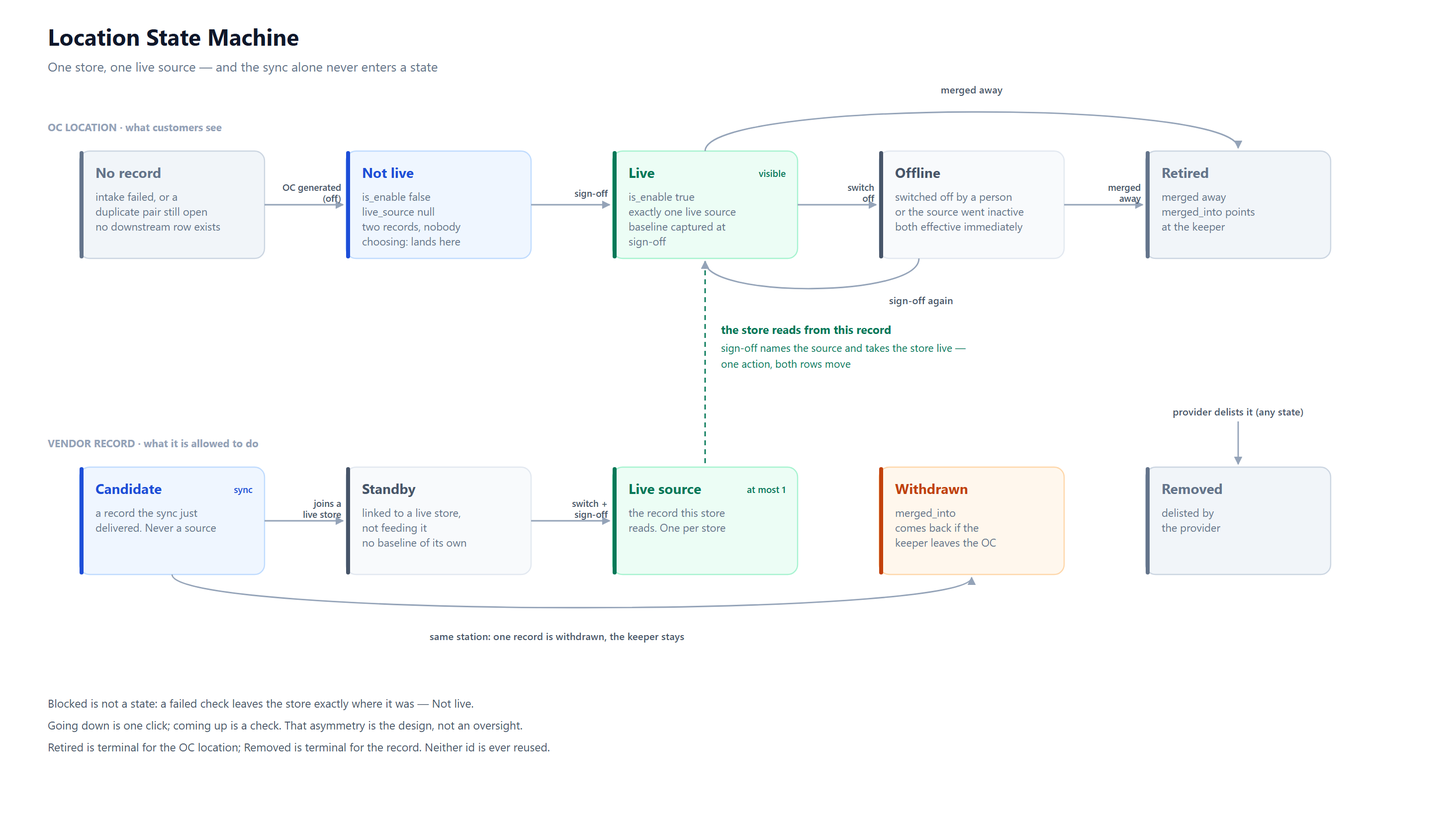
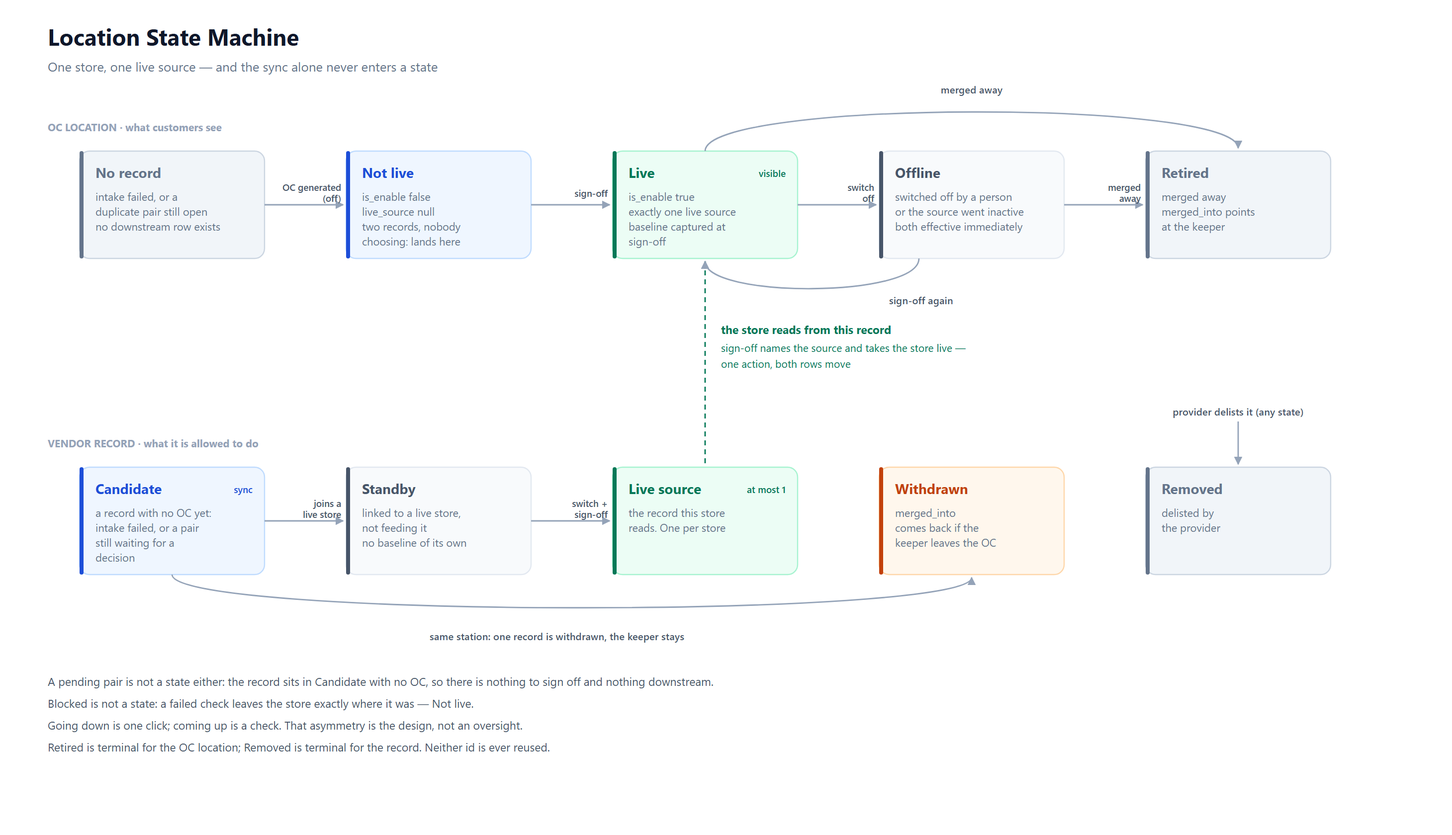
state machine: a pending pair waits in Candidate with no OC

diff --git a/diagrams/flow13-location-state.html b/diagrams/flow13-location-state.html
@@ -1,1 +1,1 @@
-<!DOCTYPE html><html><head><meta charset="utf-8"><title>Location State Machine</title><style>html,body{margin:0;padding:0;background:#fff}svg{display:block}</style></head><body><svg xmlns="http://www.w3.org/2000/svg" width="1420" height="780" viewBox="0 0 1420 780"><defs><marker id="ah" viewBox="0 0 10 10" refX="9" refY="5" markerWidth="6" markerHeight="6" orient="auto-start-reverse"><path d="M0 0 L10 5 L0 10 z" fill="#94A3B8"/></marker></defs><rect width="100%" height="100%" fill="#FFFFFF"/><text x="48" y="46" font-size="23" fill="#0F172A" font-weight="700" text-anchor="start" font-family='-apple-system,"Segoe UI",system-ui,sans-serif'>Location State Machine</text><text x="48" y="72" font-size="13" fill="#64748B" font-weight="400" text-anchor="start" font-family='-apple-system,"Segoe UI",system-ui,sans-serif'>One store, one live source — and the sync alone never enters a state</text><text x="48" y="132" font-size="10.5" fill="#94A3B8" font-weight="700" text-anchor="start" font-family='-apple-system,"Segoe UI",system-ui,sans-serif'>OC LOCATION  ·  what customers see</text><text x="48" y="450" font-size="10.5" fill="#94A3B8" font-weight="700" text-anchor="start" font-family='-apple-system,"Segoe UI",system-ui,sans-serif'>VENDOR RECORD  ·  what it is allowed to do</text><rect x="80" y="152" width="186" height="108" rx="10" fill="#F1F5F9" stroke="#CBD5E1" stroke-width="1.2"/><rect x="80" y="152" width="4" height="108" rx="2" fill="#64748B"/><text x="96" y="179" font-size="14" fill="#64748B" font-weight="650" text-anchor="start" font-family='-apple-system,"Segoe UI",system-ui,sans-serif'>No record</text><text x="96" y="202" font-size="10.9" fill="#64748B" font-weight="400" text-anchor="start" font-family='-apple-system,"Segoe UI",system-ui,sans-serif'>intake failed, or a</text><text x="96" y="217" font-size="10.9" fill="#64748B" font-weight="400" text-anchor="start" font-family='-apple-system,"Segoe UI",system-ui,sans-serif'>duplicate pair still open</text><text x="96" y="232" font-size="10.9" fill="#64748B" font-weight="400" text-anchor="start" font-family='-apple-system,"Segoe UI",system-ui,sans-serif'>no downstream row exists</text><rect x="348" y="152" width="186" height="108" rx="10" fill="#EFF6FF" stroke="#BFDBFE" stroke-width="1.2"/><rect x="348" y="152" width="4" height="108" rx="2" fill="#1D4ED8"/><text x="364" y="179" font-size="14" fill="#1D4ED8" font-weight="650" text-anchor="start" font-family='-apple-system,"Segoe UI",system-ui,sans-serif'>Not live</text><text x="364" y="202" font-size="10.9" fill="#64748B" font-weight="400" text-anchor="start" font-family='-apple-system,"Segoe UI",system-ui,sans-serif'>is_enable false</text><text x="364" y="217" font-size="10.9" fill="#64748B" font-weight="400" text-anchor="start" font-family='-apple-system,"Segoe UI",system-ui,sans-serif'>live_source null</text><text x="364" y="232" font-size="10.9" fill="#64748B" font-weight="400" text-anchor="start" font-family='-apple-system,"Segoe UI",system-ui,sans-serif'>two records, nobody</text><text x="364" y="247" font-size="10.9" fill="#64748B" font-weight="400" text-anchor="start" font-family='-apple-system,"Segoe UI",system-ui,sans-serif'>choosing: lands here</text><rect x="616" y="152" width="186" height="108" rx="10" fill="#ECFDF5" stroke="#A7F3D0" stroke-width="1.2"/><rect x="616" y="152" width="4" height="108" rx="2" fill="#047857"/><text x="632" y="179" font-size="14" fill="#047857" font-weight="650" text-anchor="start" font-family='-apple-system,"Segoe UI",system-ui,sans-serif'>Live</text><text x="790" y="178" font-size="9.5" fill="#047857" font-weight="600" text-anchor="end" font-family='-apple-system,"Segoe UI",system-ui,sans-serif'>visible</text><text x="632" y="202" font-size="10.9" fill="#64748B" font-weight="400" text-anchor="start" font-family='-apple-system,"Segoe UI",system-ui,sans-serif'>is_enable true</text><text x="632" y="217" font-size="10.9" fill="#64748B" font-weight="400" text-anchor="start" font-family='-apple-system,"Segoe UI",system-ui,sans-serif'>exactly one live source</text><text x="632" y="232" font-size="10.9" fill="#64748B" font-weight="400" text-anchor="start" font-family='-apple-system,"Segoe UI",system-ui,sans-serif'>baseline captured at</text><text x="632" y="247" font-size="10.9" fill="#64748B" font-weight="400" text-anchor="start" font-family='-apple-system,"Segoe UI",system-ui,sans-serif'>sign-off</text><rect x="884" y="152" width="186" height="108" rx="10" fill="#F8FAFC" stroke="#E2E8F0" stroke-width="1.2"/><rect x="884" y="152" width="4" height="108" rx="2" fill="#475569"/><text x="900" y="179" font-size="14" fill="#475569" font-weight="650" text-anchor="start" font-family='-apple-system,"Segoe UI",system-ui,sans-serif'>Offline</text><text x="900" y="202" font-size="10.9" fill="#64748B" font-weight="400" text-anchor="start" font-family='-apple-system,"Segoe UI",system-ui,sans-serif'>switched off by a person</text><text x="900" y="217" font-size="10.9" fill="#64748B" font-weight="400" text-anchor="start" font-family='-apple-system,"Segoe UI",system-ui,sans-serif'>or the source went inactive</text><text x="900" y="232" font-size="10.9" fill="#64748B" font-weight="400" text-anchor="start" font-family='-apple-system,"Segoe UI",system-ui,sans-serif'>both effective immediately</text><rect x="1152" y="152" width="186" height="108" rx="10" fill="#F1F5F9" stroke="#CBD5E1" stroke-width="1.2"/><rect x="1152" y="152" width="4" height="108" rx="2" fill="#64748B"/><text x="1168" y="179" font-size="14" fill="#64748B" font-weight="650" text-anchor="start" font-family='-apple-system,"Segoe UI",system-ui,sans-serif'>Retired</text><text x="1168" y="202" font-size="10.9" fill="#64748B" font-weight="400" text-anchor="start" font-family='-apple-system,"Segoe UI",system-ui,sans-serif'>merged away</text><text x="1168" y="217" font-size="10.9" fill="#64748B" font-weight="400" text-anchor="start" font-family='-apple-system,"Segoe UI",system-ui,sans-serif'>merged_into points</text><text x="1168" y="232" font-size="10.9" fill="#64748B" font-weight="400" text-anchor="start" font-family='-apple-system,"Segoe UI",system-ui,sans-serif'>at the keeper</text><path d="M266 206.0 H345" fill="none" stroke="#94A3B8" stroke-width="1.4" marker-end="url(#ah)"/><text x="343" y="192.0" font-size="9.4" fill="#475569" font-weight="600" text-anchor="end" font-family='-apple-system,"Segoe UI",system-ui,sans-serif'>OC generated</text><text x="343" y="203.0" font-size="9.4" fill="#475569" font-weight="600" text-anchor="end" font-family='-apple-system,"Segoe UI",system-ui,sans-serif'>(off)</text><path d="M534 206.0 H613" fill="none" stroke="#94A3B8" stroke-width="1.4" marker-end="url(#ah)"/><text x="611" y="198.0" font-size="9.4" fill="#475569" font-weight="600" text-anchor="end" font-family='-apple-system,"Segoe UI",system-ui,sans-serif'>sign-off</text><path d="M802 206.0 H881" fill="none" stroke="#94A3B8" stroke-width="1.4" marker-end="url(#ah)"/><text x="879" y="192.0" font-size="9.4" fill="#475569" font-weight="600" text-anchor="end" font-family='-apple-system,"Segoe UI",system-ui,sans-serif'>switch</text><text x="879" y="203.0" font-size="9.4" fill="#475569" font-weight="600" text-anchor="end" font-family='-apple-system,"Segoe UI",system-ui,sans-serif'>off</text><path d="M924 260 C924 300 709.0 300 709.0 263" fill="none" stroke="#94A3B8" stroke-width="1.4" marker-end="url(#ah)"/><text x="894" y="306" font-size="10.2" fill="#475569" font-weight="500" text-anchor="start" font-family='-apple-system,"Segoe UI",system-ui,sans-serif'>sign-off again</text><path d="M709.0 152 C709.0 100 1245.0 100 1245.0 149" fill="none" stroke="#94A3B8" stroke-width="1.4" marker-end="url(#ah)"/><text x="977.0" y="94" font-size="10.2" fill="#475569" font-weight="500" text-anchor="middle" font-family='-apple-system,"Segoe UI",system-ui,sans-serif'>merged away</text><path d="M1070 206.0 H1149" fill="none" stroke="#94A3B8" stroke-width="1.4" marker-end="url(#ah)"/><text x="1147" y="192.0" font-size="9.4" fill="#475569" font-weight="600" text-anchor="end" font-family='-apple-system,"Segoe UI",system-ui,sans-serif'>merged</text><text x="1147" y="203.0" font-size="9.4" fill="#475569" font-weight="600" text-anchor="end" font-family='-apple-system,"Segoe UI",system-ui,sans-serif'>away</text><rect x="80" y="470" width="186" height="108" rx="10" fill="#EFF6FF" stroke="#BFDBFE" stroke-width="1.2"/><rect x="80" y="470" width="4" height="108" rx="2" fill="#1D4ED8"/><text x="96" y="497" font-size="14" fill="#1D4ED8" font-weight="650" text-anchor="start" font-family='-apple-system,"Segoe UI",system-ui,sans-serif'>Candidate</text><text x="254" y="496" font-size="9.5" fill="#1D4ED8" font-weight="600" text-anchor="end" font-family='-apple-system,"Segoe UI",system-ui,sans-serif'>sync</text><text x="96" y="520" font-size="10.9" fill="#64748B" font-weight="400" text-anchor="start" font-family='-apple-system,"Segoe UI",system-ui,sans-serif'>a record the sync just</text><text x="96" y="535" font-size="10.9" fill="#64748B" font-weight="400" text-anchor="start" font-family='-apple-system,"Segoe UI",system-ui,sans-serif'>delivered. Never a source</text><rect x="348" y="470" width="186" height="108" rx="10" fill="#F8FAFC" stroke="#E2E8F0" stroke-width="1.2"/><rect x="348" y="470" width="4" height="108" rx="2" fill="#475569"/><text x="364" y="497" font-size="14" fill="#475569" font-weight="650" text-anchor="start" font-family='-apple-system,"Segoe UI",system-ui,sans-serif'>Standby</text><text x="364" y="520" font-size="10.9" fill="#64748B" font-weight="400" text-anchor="start" font-family='-apple-system,"Segoe UI",system-ui,sans-serif'>linked to a live store,</text><text x="364" y="535" font-size="10.9" fill="#64748B" font-weight="400" text-anchor="start" font-family='-apple-system,"Segoe UI",system-ui,sans-serif'>not feeding it</text><text x="364" y="550" font-size="10.9" fill="#64748B" font-weight="400" text-anchor="start" font-family='-apple-system,"Segoe UI",system-ui,sans-serif'>no baseline of its own</text><rect x="616" y="470" width="186" height="108" rx="10" fill="#ECFDF5" stroke="#A7F3D0" stroke-width="1.2"/><rect x="616" y="470" width="4" height="108" rx="2" fill="#047857"/><text x="632" y="497" font-size="14" fill="#047857" font-weight="650" text-anchor="start" font-family='-apple-system,"Segoe UI",system-ui,sans-serif'>Live source</text><text x="790" y="496" font-size="9.5" fill="#047857" font-weight="600" text-anchor="end" font-family='-apple-system,"Segoe UI",system-ui,sans-serif'>at most 1</text><text x="632" y="520" font-size="10.9" fill="#64748B" font-weight="400" text-anchor="start" font-family='-apple-system,"Segoe UI",system-ui,sans-serif'>the record this store</text><text x="632" y="535" font-size="10.9" fill="#64748B" font-weight="400" text-anchor="start" font-family='-apple-system,"Segoe UI",system-ui,sans-serif'>reads. One per store</text><rect x="884" y="470" width="186" height="108" rx="10" fill="#FFF7ED" stroke="#FED7AA" stroke-width="1.2"/><rect x="884" y="470" width="4" height="108" rx="2" fill="#C2410C"/><text x="900" y="497" font-size="14" fill="#C2410C" font-weight="650" text-anchor="start" font-family='-apple-system,"Segoe UI",system-ui,sans-serif'>Withdrawn</text><text x="900" y="520" font-size="10.9" fill="#64748B" font-weight="400" text-anchor="start" font-family='-apple-system,"Segoe UI",system-ui,sans-serif'>merged_into</text><text x="900" y="535" font-size="10.9" fill="#64748B" font-weight="400" text-anchor="start" font-family='-apple-system,"Segoe UI",system-ui,sans-serif'>comes back if the</text><text x="900" y="550" font-size="10.9" fill="#64748B" font-weight="400" text-anchor="start" font-family='-apple-system,"Segoe UI",system-ui,sans-serif'>keeper leaves the OC</text><rect x="1152" y="470" width="186" height="108" rx="10" fill="#F1F5F9" stroke="#CBD5E1" stroke-width="1.2"/><rect x="1152" y="470" width="4" height="108" rx="2" fill="#64748B"/><text x="1168" y="497" font-size="14" fill="#64748B" font-weight="650" text-anchor="start" font-family='-apple-system,"Segoe UI",system-ui,sans-serif'>Removed</text><text x="1168" y="520" font-size="10.9" fill="#64748B" font-weight="400" text-anchor="start" font-family='-apple-system,"Segoe UI",system-ui,sans-serif'>delisted by</text><text x="1168" y="535" font-size="10.9" fill="#64748B" font-weight="400" text-anchor="start" font-family='-apple-system,"Segoe UI",system-ui,sans-serif'>the provider</text><path d="M266 524.0 H345" fill="none" stroke="#94A3B8" stroke-width="1.4" marker-end="url(#ah)"/><text x="343" y="510.0" font-size="9.4" fill="#475569" font-weight="600" text-anchor="end" font-family='-apple-system,"Segoe UI",system-ui,sans-serif'>joins a</text><text x="343" y="521.0" font-size="9.4" fill="#475569" font-weight="600" text-anchor="end" font-family='-apple-system,"Segoe UI",system-ui,sans-serif'>live store</text><path d="M534 524.0 H613" fill="none" stroke="#94A3B8" stroke-width="1.4" marker-end="url(#ah)"/><text x="611" y="510.0" font-size="9.4" fill="#475569" font-weight="600" text-anchor="end" font-family='-apple-system,"Segoe UI",system-ui,sans-serif'>switch +</text><text x="611" y="521.0" font-size="9.4" fill="#475569" font-weight="600" text-anchor="end" font-family='-apple-system,"Segoe UI",system-ui,sans-serif'>sign-off</text><path d="M173.0 578 C173.0 622 977.0 622 977.0 581" fill="none" stroke="#94A3B8" stroke-width="1.4" marker-end="url(#ah)"/><text x="560" y="644" font-size="10.2" fill="#475569" font-weight="500" text-anchor="middle" font-family='-apple-system,"Segoe UI",system-ui,sans-serif'>same station: one record is withdrawn, the keeper stays</text><path d="M1245.0 424 V467" fill="none" stroke="#94A3B8" stroke-width="1.4" marker-end="url(#ah)"/><text x="1245.0" y="418" font-size="10.2" fill="#475569" font-weight="500" text-anchor="middle" font-family='-apple-system,"Segoe UI",system-ui,sans-serif'>provider delists it (any state)</text><path d="M709.0 466 V263" fill="none" stroke="#047857" stroke-width="1.4" stroke-dasharray="5 4" marker-end="url(#ah)"/><text x="725.0" y="336" font-size="11.5" fill="#047857" font-weight="650" text-anchor="start" font-family='-apple-system,"Segoe UI",system-ui,sans-serif'>the store reads from this record</text><text x="725.0" y="354" font-size="10.6" fill="#047857" font-weight="400" text-anchor="start" font-family='-apple-system,"Segoe UI",system-ui,sans-serif'>sign-off names the source and takes the store live —</text><text x="725.0" y="370" font-size="10.6" fill="#047857" font-weight="400" text-anchor="start" font-family='-apple-system,"Segoe UI",system-ui,sans-serif'>one action, both rows move</text><text x="48" y="712" font-size="11.5" fill="#475569" font-weight="400" text-anchor="start" font-family='-apple-system,"Segoe UI",system-ui,sans-serif'>Blocked is not a state: a failed check leaves the store exactly where it was — Not live.</text><text x="48" y="734" font-size="11.5" fill="#475569" font-weight="400" text-anchor="start" font-family='-apple-system,"Segoe UI",system-ui,sans-serif'>Going down is one click; coming up is a check. That asymmetry is the design, not an oversight.</text><text x="48" y="756" font-size="11.5" fill="#475569" font-weight="400" text-anchor="start" font-family='-apple-system,"Segoe UI",system-ui,sans-serif'>Retired is terminal for the OC location; Removed is terminal for the record. Neither id is ever reused.</text></svg></body></html>
+<!DOCTYPE html><html><head><meta charset="utf-8"><title>Location State Machine</title><style>html,body{margin:0;padding:0;background:#fff}svg{display:block}</style></head><body><svg xmlns="http://www.w3.org/2000/svg" width="1420" height="780" viewBox="0 0 1420 780"><defs><marker id="ah" viewBox="0 0 10 10" refX="9" refY="5" markerWidth="6" markerHeight="6" orient="auto-start-reverse"><path d="M0 0 L10 5 L0 10 z" fill="#94A3B8"/></marker></defs><rect width="100%" height="100%" fill="#FFFFFF"/><text x="48" y="46" font-size="23" fill="#0F172A" font-weight="700" text-anchor="start" font-family='-apple-system,"Segoe UI",system-ui,sans-serif'>Location State Machine</text><text x="48" y="72" font-size="13" fill="#64748B" font-weight="400" text-anchor="start" font-family='-apple-system,"Segoe UI",system-ui,sans-serif'>One store, one live source — and the sync alone never enters a state</text><text x="48" y="132" font-size="10.5" fill="#94A3B8" font-weight="700" text-anchor="start" font-family='-apple-system,"Segoe UI",system-ui,sans-serif'>OC LOCATION  ·  what customers see</text><text x="48" y="450" font-size="10.5" fill="#94A3B8" font-weight="700" text-anchor="start" font-family='-apple-system,"Segoe UI",system-ui,sans-serif'>VENDOR RECORD  ·  what it is allowed to do</text><rect x="80" y="152" width="186" height="108" rx="10" fill="#F1F5F9" stroke="#CBD5E1" stroke-width="1.2"/><rect x="80" y="152" width="4" height="108" rx="2" fill="#64748B"/><text x="96" y="179" font-size="14" fill="#64748B" font-weight="650" text-anchor="start" font-family='-apple-system,"Segoe UI",system-ui,sans-serif'>No record</text><text x="96" y="202" font-size="10.9" fill="#64748B" font-weight="400" text-anchor="start" font-family='-apple-system,"Segoe UI",system-ui,sans-serif'>intake failed, or a</text><text x="96" y="217" font-size="10.9" fill="#64748B" font-weight="400" text-anchor="start" font-family='-apple-system,"Segoe UI",system-ui,sans-serif'>duplicate pair still open</text><text x="96" y="232" font-size="10.9" fill="#64748B" font-weight="400" text-anchor="start" font-family='-apple-system,"Segoe UI",system-ui,sans-serif'>no downstream row exists</text><rect x="348" y="152" width="186" height="108" rx="10" fill="#EFF6FF" stroke="#BFDBFE" stroke-width="1.2"/><rect x="348" y="152" width="4" height="108" rx="2" fill="#1D4ED8"/><text x="364" y="179" font-size="14" fill="#1D4ED8" font-weight="650" text-anchor="start" font-family='-apple-system,"Segoe UI",system-ui,sans-serif'>Not live</text><text x="364" y="202" font-size="10.9" fill="#64748B" font-weight="400" text-anchor="start" font-family='-apple-system,"Segoe UI",system-ui,sans-serif'>is_enable false</text><text x="364" y="217" font-size="10.9" fill="#64748B" font-weight="400" text-anchor="start" font-family='-apple-system,"Segoe UI",system-ui,sans-serif'>live_source null</text><text x="364" y="232" font-size="10.9" fill="#64748B" font-weight="400" text-anchor="start" font-family='-apple-system,"Segoe UI",system-ui,sans-serif'>two records, nobody</text><text x="364" y="247" font-size="10.9" fill="#64748B" font-weight="400" text-anchor="start" font-family='-apple-system,"Segoe UI",system-ui,sans-serif'>choosing: lands here</text><rect x="616" y="152" width="186" height="108" rx="10" fill="#ECFDF5" stroke="#A7F3D0" stroke-width="1.2"/><rect x="616" y="152" width="4" height="108" rx="2" fill="#047857"/><text x="632" y="179" font-size="14" fill="#047857" font-weight="650" text-anchor="start" font-family='-apple-system,"Segoe UI",system-ui,sans-serif'>Live</text><text x="790" y="178" font-size="9.5" fill="#047857" font-weight="600" text-anchor="end" font-family='-apple-system,"Segoe UI",system-ui,sans-serif'>visible</text><text x="632" y="202" font-size="10.9" fill="#64748B" font-weight="400" text-anchor="start" font-family='-apple-system,"Segoe UI",system-ui,sans-serif'>is_enable true</text><text x="632" y="217" font-size="10.9" fill="#64748B" font-weight="400" text-anchor="start" font-family='-apple-system,"Segoe UI",system-ui,sans-serif'>exactly one live source</text><text x="632" y="232" font-size="10.9" fill="#64748B" font-weight="400" text-anchor="start" font-family='-apple-system,"Segoe UI",system-ui,sans-serif'>baseline captured at</text><text x="632" y="247" font-size="10.9" fill="#64748B" font-weight="400" text-anchor="start" font-family='-apple-system,"Segoe UI",system-ui,sans-serif'>sign-off</text><rect x="884" y="152" width="186" height="108" rx="10" fill="#F8FAFC" stroke="#E2E8F0" stroke-width="1.2"/><rect x="884" y="152" width="4" height="108" rx="2" fill="#475569"/><text x="900" y="179" font-size="14" fill="#475569" font-weight="650" text-anchor="start" font-family='-apple-system,"Segoe UI",system-ui,sans-serif'>Offline</text><text x="900" y="202" font-size="10.9" fill="#64748B" font-weight="400" text-anchor="start" font-family='-apple-system,"Segoe UI",system-ui,sans-serif'>switched off by a person</text><text x="900" y="217" font-size="10.9" fill="#64748B" font-weight="400" text-anchor="start" font-family='-apple-system,"Segoe UI",system-ui,sans-serif'>or the source went inactive</text><text x="900" y="232" font-size="10.9" fill="#64748B" font-weight="400" text-anchor="start" font-family='-apple-system,"Segoe UI",system-ui,sans-serif'>both effective immediately</text><rect x="1152" y="152" width="186" height="108" rx="10" fill="#F1F5F9" stroke="#CBD5E1" stroke-width="1.2"/><rect x="1152" y="152" width="4" height="108" rx="2" fill="#64748B"/><text x="1168" y="179" font-size="14" fill="#64748B" font-weight="650" text-anchor="start" font-family='-apple-system,"Segoe UI",system-ui,sans-serif'>Retired</text><text x="1168" y="202" font-size="10.9" fill="#64748B" font-weight="400" text-anchor="start" font-family='-apple-system,"Segoe UI",system-ui,sans-serif'>merged away</text><text x="1168" y="217" font-size="10.9" fill="#64748B" font-weight="400" text-anchor="start" font-family='-apple-system,"Segoe UI",system-ui,sans-serif'>merged_into points</text><text x="1168" y="232" font-size="10.9" fill="#64748B" font-weight="400" text-anchor="start" font-family='-apple-system,"Segoe UI",system-ui,sans-serif'>at the keeper</text><path d="M266 206.0 H345" fill="none" stroke="#94A3B8" stroke-width="1.4" marker-end="url(#ah)"/><text x="343" y="192.0" font-size="9.4" fill="#475569" font-weight="600" text-anchor="end" font-family='-apple-system,"Segoe UI",system-ui,sans-serif'>OC generated</text><text x="343" y="203.0" font-size="9.4" fill="#475569" font-weight="600" text-anchor="end" font-family='-apple-system,"Segoe UI",system-ui,sans-serif'>(off)</text><path d="M534 206.0 H613" fill="none" stroke="#94A3B8" stroke-width="1.4" marker-end="url(#ah)"/><text x="611" y="198.0" font-size="9.4" fill="#475569" font-weight="600" text-anchor="end" font-family='-apple-system,"Segoe UI",system-ui,sans-serif'>sign-off</text><path d="M802 206.0 H881" fill="none" stroke="#94A3B8" stroke-width="1.4" marker-end="url(#ah)"/><text x="879" y="192.0" font-size="9.4" fill="#475569" font-weight="600" text-anchor="end" font-family='-apple-system,"Segoe UI",system-ui,sans-serif'>switch</text><text x="879" y="203.0" font-size="9.4" fill="#475569" font-weight="600" text-anchor="end" font-family='-apple-system,"Segoe UI",system-ui,sans-serif'>off</text><path d="M924 260 C924 300 709.0 300 709.0 263" fill="none" stroke="#94A3B8" stroke-width="1.4" marker-end="url(#ah)"/><text x="894" y="306" font-size="10.2" fill="#475569" font-weight="500" text-anchor="start" font-family='-apple-system,"Segoe UI",system-ui,sans-serif'>sign-off again</text><path d="M709.0 152 C709.0 100 1245.0 100 1245.0 149" fill="none" stroke="#94A3B8" stroke-width="1.4" marker-end="url(#ah)"/><text x="977.0" y="94" font-size="10.2" fill="#475569" font-weight="500" text-anchor="middle" font-family='-apple-system,"Segoe UI",system-ui,sans-serif'>merged away</text><path d="M1070 206.0 H1149" fill="none" stroke="#94A3B8" stroke-width="1.4" marker-end="url(#ah)"/><text x="1147" y="192.0" font-size="9.4" fill="#475569" font-weight="600" text-anchor="end" font-family='-apple-system,"Segoe UI",system-ui,sans-serif'>merged</text><text x="1147" y="203.0" font-size="9.4" fill="#475569" font-weight="600" text-anchor="end" font-family='-apple-system,"Segoe UI",system-ui,sans-serif'>away</text><rect x="80" y="470" width="186" height="108" rx="10" fill="#EFF6FF" stroke="#BFDBFE" stroke-width="1.2"/><rect x="80" y="470" width="4" height="108" rx="2" fill="#1D4ED8"/><text x="96" y="497" font-size="14" fill="#1D4ED8" font-weight="650" text-anchor="start" font-family='-apple-system,"Segoe UI",system-ui,sans-serif'>Candidate</text><text x="254" y="496" font-size="9.5" fill="#1D4ED8" font-weight="600" text-anchor="end" font-family='-apple-system,"Segoe UI",system-ui,sans-serif'>sync</text><text x="96" y="520" font-size="10.9" fill="#64748B" font-weight="400" text-anchor="start" font-family='-apple-system,"Segoe UI",system-ui,sans-serif'>a record with no OC yet:</text><text x="96" y="535" font-size="10.9" fill="#64748B" font-weight="400" text-anchor="start" font-family='-apple-system,"Segoe UI",system-ui,sans-serif'>intake failed, or a pair</text><text x="96" y="550" font-size="10.9" fill="#64748B" font-weight="400" text-anchor="start" font-family='-apple-system,"Segoe UI",system-ui,sans-serif'>still waiting for a</text><text x="96" y="565" font-size="10.9" fill="#64748B" font-weight="400" text-anchor="start" font-family='-apple-system,"Segoe UI",system-ui,sans-serif'>decision</text><rect x="348" y="470" width="186" height="108" rx="10" fill="#F8FAFC" stroke="#E2E8F0" stroke-width="1.2"/><rect x="348" y="470" width="4" height="108" rx="2" fill="#475569"/><text x="364" y="497" font-size="14" fill="#475569" font-weight="650" text-anchor="start" font-family='-apple-system,"Segoe UI",system-ui,sans-serif'>Standby</text><text x="364" y="520" font-size="10.9" fill="#64748B" font-weight="400" text-anchor="start" font-family='-apple-system,"Segoe UI",system-ui,sans-serif'>linked to a live store,</text><text x="364" y="535" font-size="10.9" fill="#64748B" font-weight="400" text-anchor="start" font-family='-apple-system,"Segoe UI",system-ui,sans-serif'>not feeding it</text><text x="364" y="550" font-size="10.9" fill="#64748B" font-weight="400" text-anchor="start" font-family='-apple-system,"Segoe UI",system-ui,sans-serif'>no baseline of its own</text><rect x="616" y="470" width="186" height="108" rx="10" fill="#ECFDF5" stroke="#A7F3D0" stroke-width="1.2"/><rect x="616" y="470" width="4" height="108" rx="2" fill="#047857"/><text x="632" y="497" font-size="14" fill="#047857" font-weight="650" text-anchor="start" font-family='-apple-system,"Segoe UI",system-ui,sans-serif'>Live source</text><text x="790" y="496" font-size="9.5" fill="#047857" font-weight="600" text-anchor="end" font-family='-apple-system,"Segoe UI",system-ui,sans-serif'>at most 1</text><text x="632" y="520" font-size="10.9" fill="#64748B" font-weight="400" text-anchor="start" font-family='-apple-system,"Segoe UI",system-ui,sans-serif'>the record this store</text><text x="632" y="535" font-size="10.9" fill="#64748B" font-weight="400" text-anchor="start" font-family='-apple-system,"Segoe UI",system-ui,sans-serif'>reads. One per store</text><rect x="884" y="470" width="186" height="108" rx="10" fill="#FFF7ED" stroke="#FED7AA" stroke-width="1.2"/><rect x="884" y="470" width="4" height="108" rx="2" fill="#C2410C"/><text x="900" y="497" font-size="14" fill="#C2410C" font-weight="650" text-anchor="start" font-family='-apple-system,"Segoe UI",system-ui,sans-serif'>Withdrawn</text><text x="900" y="520" font-size="10.9" fill="#64748B" font-weight="400" text-anchor="start" font-family='-apple-system,"Segoe UI",system-ui,sans-serif'>merged_into</text><text x="900" y="535" font-size="10.9" fill="#64748B" font-weight="400" text-anchor="start" font-family='-apple-system,"Segoe UI",system-ui,sans-serif'>comes back if the</text><text x="900" y="550" font-size="10.9" fill="#64748B" font-weight="400" text-anchor="start" font-family='-apple-system,"Segoe UI",system-ui,sans-serif'>keeper leaves the OC</text><rect x="1152" y="470" width="186" height="108" rx="10" fill="#F1F5F9" stroke="#CBD5E1" stroke-width="1.2"/><rect x="1152" y="470" width="4" height="108" rx="2" fill="#64748B"/><text x="1168" y="497" font-size="14" fill="#64748B" font-weight="650" text-anchor="start" font-family='-apple-system,"Segoe UI",system-ui,sans-serif'>Removed</text><text x="1168" y="520" font-size="10.9" fill="#64748B" font-weight="400" text-anchor="start" font-family='-apple-system,"Segoe UI",system-ui,sans-serif'>delisted by</text><text x="1168" y="535" font-size="10.9" fill="#64748B" font-weight="400" text-anchor="start" font-family='-apple-system,"Segoe UI",system-ui,sans-serif'>the provider</text><path d="M266 524.0 H345" fill="none" stroke="#94A3B8" stroke-width="1.4" marker-end="url(#ah)"/><text x="343" y="510.0" font-size="9.4" fill="#475569" font-weight="600" text-anchor="end" font-family='-apple-system,"Segoe UI",system-ui,sans-serif'>joins a</text><text x="343" y="521.0" font-size="9.4" fill="#475569" font-weight="600" text-anchor="end" font-family='-apple-system,"Segoe UI",system-ui,sans-serif'>live store</text><path d="M534 524.0 H613" fill="none" stroke="#94A3B8" stroke-width="1.4" marker-end="url(#ah)"/><text x="611" y="510.0" font-size="9.4" fill="#475569" font-weight="600" text-anchor="end" font-family='-apple-system,"Segoe UI",system-ui,sans-serif'>switch +</text><text x="611" y="521.0" font-size="9.4" fill="#475569" font-weight="600" text-anchor="end" font-family='-apple-system,"Segoe UI",system-ui,sans-serif'>sign-off</text><path d="M173.0 578 C173.0 622 977.0 622 977.0 581" fill="none" stroke="#94A3B8" stroke-width="1.4" marker-end="url(#ah)"/><text x="560" y="644" font-size="10.2" fill="#475569" font-weight="500" text-anchor="middle" font-family='-apple-system,"Segoe UI",system-ui,sans-serif'>same station: one record is withdrawn, the keeper stays</text><path d="M1245.0 424 V467" fill="none" stroke="#94A3B8" stroke-width="1.4" marker-end="url(#ah)"/><text x="1245.0" y="418" font-size="10.2" fill="#475569" font-weight="500" text-anchor="middle" font-family='-apple-system,"Segoe UI",system-ui,sans-serif'>provider delists it (any state)</text><path d="M709.0 466 V263" fill="none" stroke="#047857" stroke-width="1.4" stroke-dasharray="5 4" marker-end="url(#ah)"/><text x="725.0" y="336" font-size="11.5" fill="#047857" font-weight="650" text-anchor="start" font-family='-apple-system,"Segoe UI",system-ui,sans-serif'>the store reads from this record</text><text x="725.0" y="354" font-size="10.6" fill="#047857" font-weight="400" text-anchor="start" font-family='-apple-system,"Segoe UI",system-ui,sans-serif'>sign-off names the source and takes the store live —</text><text x="725.0" y="370" font-size="10.6" fill="#047857" font-weight="400" text-anchor="start" font-family='-apple-system,"Segoe UI",system-ui,sans-serif'>one action, both rows move</text><text x="48" y="690" font-size="11.5" fill="#475569" font-weight="400" text-anchor="start" font-family='-apple-system,"Segoe UI",system-ui,sans-serif'>A pending pair is not a state either: the record sits in Candidate with no OC, so there is nothing to sign off and nothing downstream.</text><text x="48" y="712" font-size="11.5" fill="#475569" font-weight="400" text-anchor="start" font-family='-apple-system,"Segoe UI",system-ui,sans-serif'>Blocked is not a state: a failed check leaves the store exactly where it was — Not live.</text><text x="48" y="734" font-size="11.5" fill="#475569" font-weight="400" text-anchor="start" font-family='-apple-system,"Segoe UI",system-ui,sans-serif'>Going down is one click; coming up is a check. That asymmetry is the design, not an oversight.</text><text x="48" y="756" font-size="11.5" fill="#475569" font-weight="400" text-anchor="start" font-family='-apple-system,"Segoe UI",system-ui,sans-serif'>Retired is terminal for the OC location; Removed is terminal for the record. Neither id is ever reused.</text></svg></body></html>

diff --git a/Location-Management-Admin-PRD-2026-10-29.md b/Location-Management-Admin-PRD-2026-10-29.md
@@ -448,18 +448,18 @@ A 2:1 store used to print one merged line. Whichever record ranked highest suppl
 
 ### 5.23 The location state machine (v4.1.0)
 
-![Location state machine — one store, one live source](https://workbuddy-space-static.codebuddy.work/image/s6IUFbwPF90MxY0uXkVAGN.png)
+![Location state machine — one store, one live source](https://workbuddy-space-static.codebuddy.work/image/xgPet1S8oJUFrwmXSOZvyg.png)
 
 Two rows on one axis: what a **store** may be, and what a **record** is allowed to do. They meet in exactly one place — the sign-off — because that is the only action that moves both.
 
 **Store states.** `No record` (intake failed, or a duplicate pair is still open; nothing downstream exists) → `Not live` (`is_enable` false, `live_source` null — including the case of two records and nobody choosing) → `Live` (`is_enable` true, exactly one live source, baseline captured) → `Offline` (switched off by a person, or the source went inactive; both take effect immediately) → `Retired` (merged away, `merged_into` points at the keeper).
 
-**Record roles.** `Candidate` (delivered by the sync, never a source) → `Standby` (linked to a store that is live on another record) or `Live source` (the record this store reads, one per store), with `Withdrawn` (`merged_into`, returns to candidate if the keeper leaves) and `Removed` (delisted by the provider) as the exits.
+**Record roles.** `Candidate` (delivered by the sync, never a source — and where a pending pair or a failed intake waits, with no OC location) → `Standby` (linked to a store that is live on another record) or `Live source` (the record this store reads, one per store), with `Withdrawn` (`merged_into`, returns to candidate if the keeper leaves) and `Removed` (delisted by the provider) as the exits.
 
 **Three invariants, drawn rather than asserted:**
 
 1. **No state is entered by the sync alone.** A record arrives as a candidate; the store it joins stays exactly where it was (§5.22).
-2. **`Blocked` is not a state.** A failed check leaves the store where it already was — `Not live`. Rendering it as a state would suggest the store moved, and the point is that it did not.
+2. **`Blocked` is not a state.** A failed check leaves the store where it already was — `Not live`. Rendering it as a state would suggest the store moved, and the point is that it did not. The same applies to a **pending duplicate**: the record waits in `Candidate` with no OC location at all, because a suspected pair generates nothing until a person decides. Nothing to sign off, nothing downstream.
 3. **Down is one click, up is a check.** The asymmetry is the design: an unverified store going offline is a smaller failure than an unverified store going live.
 
 The diagram is published as `diagrams/flow13-location-state.png` (vector version: `diagrams/flow13-location-state.html`). It is hand-drawn SVG rather than generated, so the two rows stay aligned exactly where they meet — the sign-off.

diff --git a/Location-Management-Admin-需求总览-2026-10-29.md b/Location-Management-Admin-需求总览-2026-10-29.md
@@ -311,13 +311,13 @@ sweeper 由供应商随门店一起提供，和其它字段一样只读。发现
 
 ### 3.10 Location 状态机（v4.1.0）
 
-![Location 状态机](https://workbuddy-space-static.codebuddy.work/image/s6IUFbwPF90MxY0uXkVAGN.png)
+![Location 状态机](https://workbuddy-space-static.codebuddy.work/image/xgPet1S8oJUFrwmXSOZvyg.png)
 
 两行、一根轴：**门店能是什么状态**，**一条记录被允许做什么**。它们只在一个地方相遇 —— 签收，因为那是唯一同时移动两行的动作。
 
 - **门店**：`No record`（入库失败 / 重复未决，下游什么都没有）→ `Not live`（已生成但关闭、无供数源；两条记录没人选也落在这里）→ `Live`（开着，恰好一个供数源，基线已记）→ `Offline`（人为关，或供数源失效；两者立即生效）→ `Retired`（被合并，`merged_into` 指向留下那条）。
-- **记录**：`Candidate`（同步刚送来的，永远不是来源）→ `Standby`（挂在别人供数的店上）或 `Live source`（这家店读它，一店一个），出口是 `Withdrawn`（`merged_into`，合并方离开就回到候选）与 `Removed`（供应商下架）。
-- **三条不变量画在图上**：① 同步本身进不了任何状态；② `Blocked` 不是状态（检查没过，店原地不动）；③ 下线一键、上线一检。
+- **记录**：`Candidate`（同步刚送来的，永远不是来源；待判重复和入库失败也停在这里 —— 此时**没有 OC**，所以既不能签收、下游也没有东西）→ `Standby`（挂在别人供数的店上）或 `Live source`（这家店读它，一店一个），出口是 `Withdrawn`（`merged_into`，合并方离开就回到候选）与 `Removed`（供应商下架）。
+- **三条不变量画在图上**：① 同步本身进不了任何状态；② `Blocked` 不是状态（检查没过，店原地不动），**待判重复同理**（记录停在 Candidate、没有 OC）；③ 下线一键、上线一检。
 
 对应 PRD §5.23；图为 `diagrams/flow13-location-state.png`。
 
